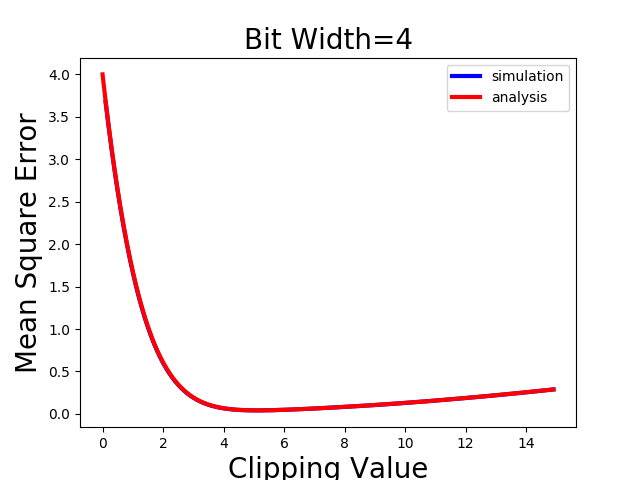
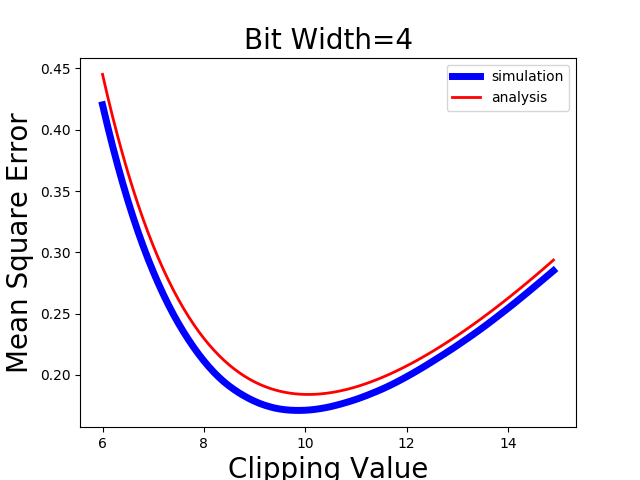
mse-analysis

diff --git a/mse_analysis.py b/mse_analysis.py
@@ -60,23 +60,23 @@ def LaplacianClippingSimulation(Alpha, b, bitWidth):
 
 
 if __name__ == "__main__":
-    Alpha = np.arange(0, 15, 0.1)
+    Alpha = np.arange(6, 15, 0.1)
 
     #Experiment parameters
     bitWidth = 4
     sigma = 2  # standard deviation
 
     #Gauss
-    simulation  = GaussianClippingSimulation(Alpha,sigma,bitWidth)
-    analysis = GaussianClippingAnalysis(Alpha, sigma, bitWidth)
+    # simulation  = GaussianClippingSimulation(Alpha,sigma,bitWidth)
+    # analysis = GaussianClippingAnalysis(Alpha, sigma, bitWidth)
 
     #Laplace
-    # simulation = LaplacianClippingSimulation(Alpha, sigma, bitWidth)
-    # analysis = LaplacianClippingAnalysis(Alpha, sigma, bitWidth)
+    simulation = LaplacianClippingSimulation(Alpha, sigma, bitWidth)
+    analysis = LaplacianClippingAnalysis(Alpha, sigma, bitWidth)
 
 
-    plt.plot(Alpha,simulation,'b', linewidth=3)
-    plt.plot(Alpha,analysis,'r', linewidth=3)
+    plt.plot(Alpha,simulation,'b', linewidth=5)
+    plt.plot(Alpha,analysis,'r', linewidth=2)
     plt.legend(('simulation', 'analysis')); plt.ylabel('Mean Square Error', size=20) ; plt.xlabel('Clipping Value', size=20)
     plt.title('Bit Width='+ str(bitWidth), size=20)
     plt.show()
